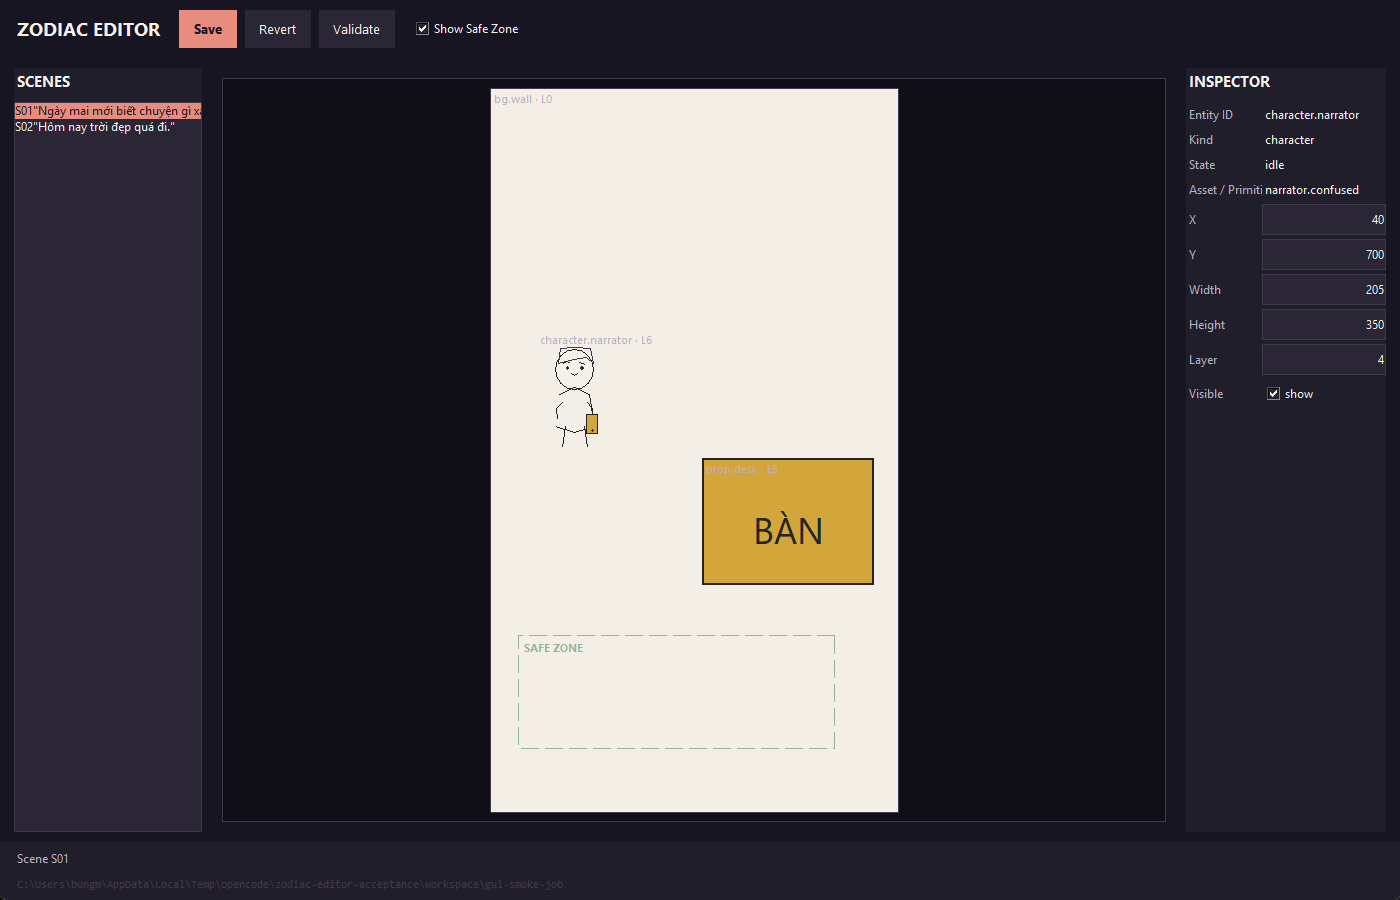
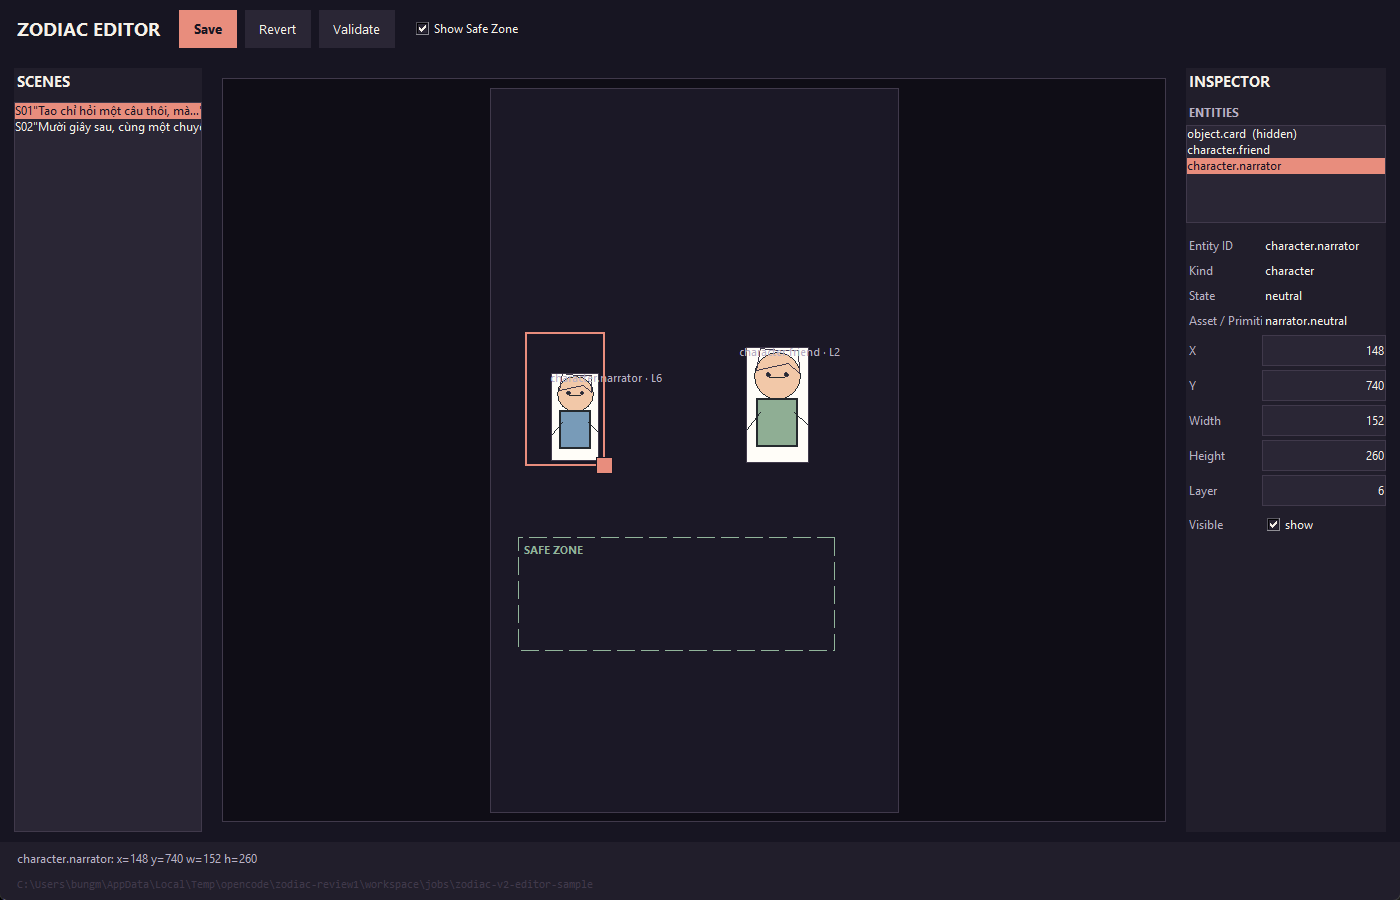
Keep hidden entities out of canvas hit-testing
Hidden entities now have no invisible clickable region: they are not drawn and

not hit-tested. The inspector entity list (including '(hidden)' entries) is the

only way to select one and toggle Visible back on.

Adds regression coverage for rejected-save persistence and fixture verification.

diff --git a/tests/test_editor.py b/tests/test_editor.py
@@ -4,7 +4,7 @@ import unittest
 from pathlib import Path
 
 from test_zodiac_local import package_files, write_pcm
-from tools.editor.canvas import build_items, hit_test
+from tools.editor.canvas import build_items, describe_source, hit_test
 from tools.editor.commands import History, StateCommand
 from tools.editor.document import EditorDocument, EditorError
 from tools.editor.geometry import CanvasTransform
@@ -292,7 +292,7 @@ class CanvasHitTestTests(unittest.TestCase):
             self.assertEqual(hit.entity_id, "bg.wall")
             self.assertIsNone(hit_test(items, -50, -50))
 
-    def test_hidden_entity_stays_clickable_but_is_not_drawn(self):
+    def test_hidden_entity_is_not_hit_tested_on_canvas(self):
         view = CanvasTransform(1080, 1920, 540, 960)
         with tempfile.TemporaryDirectory() as temp:
             job = write_editor_package(Path(temp))
@@ -302,9 +302,14 @@ class CanvasHitTestTests(unittest.TestCase):
                 "character.lead",
                 [item.entity_id for item in build_items(document, "S01", view)],
             )
-            clickable = build_items(document, "S01", view, include_hidden=True)
-            hit = hit_test(clickable, 200 * view.scale, 200 * view.scale)
-            self.assertEqual(hit.entity_id, "character.lead")
+            self.assertNotEqual(
+                hit_test(build_items(document, "S01", view), 200 * view.scale, 200 * view.scale).entity_id,
+                "character.lead",
+            )
+            # the inspector entity list is the only way back to a hidden entity
+            hidden = [p for p in document.placements("S01") if p.entity_id == "character.lead"]
+            self.assertEqual(len(hidden), 1)
+            self.assertFalse(hidden[0].visible)
 
     def test_layer_order_matches_contract_layer(self):
         view = CanvasTransform(1080, 1920, 540, 960)
@@ -342,6 +347,131 @@ class RuntimeInvalidationTests(unittest.TestCase):
             self.assertTrue(timing.exists())
             self.assertTrue((job / "voice.wav").exists())
             self.assertTrue((job / ".runtime" / "timing.json").exists())
+
+
+def editor_sample_archive() -> Path | None:
+    """The reviewer-provided v2 sample package, when the local zip is present."""
+    archive = Path(__file__).resolve().parents[1] / "ready" / "zodiac-v2-editor-sample.zip"
+    return archive if archive.is_file() else None
+
+
+def import_sample_package(root: Path) -> Path:
+    from tools.zodiac_local import import_package
+
+    return import_package(editor_sample_archive(), root / "jobs")
+
+
+def sample_shaped_package(job: Path) -> Path:
+    """Use the sample's S01 narrator numbers so both fixtures assert the same values."""
+    production = json.loads((job / "production.json").read_text(encoding="utf-8"))
+    state = production["scenes"][0]["entities"][0]["states"]["neutral"]
+    state["transform"] = {"x": 95, "y": 650, "width": 205, "height": 350}
+    state["layer"] = 3
+    (job / "production.json").write_text(json.dumps(production, ensure_ascii=False), encoding="utf-8")
+    return job
+
+
+class PersistenceRegressionTests(unittest.TestCase):
+    """load -> valid resize -> save -> reload -> invalid resize -> rejected save."""
+
+    RESIZED = {"x": 95, "y": 650, "width": 152, "height": 259}
+
+    def _run_sequence(self, job: Path, entity_id: str) -> None:
+        document = EditorDocument(job)
+        document.set_transform("S01", entity_id, width=152, height=259)
+        document.save()
+
+        reopened = EditorDocument(job)
+        self.assertFalse(reopened.is_dirty)
+        self.assertEqual(reopened.state("S01", entity_id)["transform"], self.RESIZED)
+
+        reopened.set_transform("S01", entity_id, width=0, height=259)
+        with self.assertRaises(EditorError):
+            reopened.save()
+
+        disk = json.loads((job / "production.json").read_text(encoding="utf-8"))
+        entity = next(
+            item
+            for scene in disk["scenes"]
+            if scene["id"] == "S01"
+            for item in scene["entities"]
+            if item["id"] == entity_id
+        )
+        self.assertEqual(entity["states"][entity["initial_state"]]["transform"], self.RESIZED)
+        self.assertEqual(list(job.glob("production.json*.tmp")), [])
+
+    def test_generated_package_keeps_last_valid_resize(self):
+        with tempfile.TemporaryDirectory() as temp:
+            job = sample_shaped_package(write_editor_package(Path(temp)))
+            self._run_sequence(job, "character.lead")
+
+    def test_editor_sample_zip_keeps_last_valid_resize(self):
+        if editor_sample_archive() is None:
+            self.skipTest("ready/zodiac-v2-editor-sample.zip is not available")
+        with tempfile.TemporaryDirectory() as temp:
+            self._run_sequence(import_sample_package(Path(temp)), "character.narrator")
+
+
+class SamplePackageTests(unittest.TestCase):
+    def setUp(self):
+        if editor_sample_archive() is None:
+            self.skipTest("ready/zodiac-v2-editor-sample.zip is not available")
+        self._temp = tempfile.TemporaryDirectory()
+        self.job = import_sample_package(Path(self._temp.name))
+
+    def tearDown(self):
+        self._temp.cleanup()
+
+    def test_fixture_matches_the_v2_contract(self):
+        document = EditorDocument(self.job)
+        self.assertEqual(document.working["version"], "2.0")
+        self.assertEqual(document.video, {"width": 1080, "height": 1920, "fps": 30})
+        self.assertEqual(len(document.scene_ids), 2)
+        for scene_id in document.scene_ids:
+            self.assertEqual(len(document.placements(scene_id)), 3)
+
+    def test_fixture_svg_and_primitive_sources_resolve(self):
+        document = EditorDocument(self.job)
+        for scene_id in document.scene_ids:
+            for placement in document.placements(scene_id):
+                detail, missing = describe_source(document, placement)
+                self.assertFalse(missing, f"{placement.entity_id} -> {detail}")
+                if placement.asset:
+                    self.assertTrue((self.job / detail).is_file())
+
+    def test_scene_start_and_voice_anchor_survive_a_save(self):
+        before = json.loads((self.job / "production.json").read_text(encoding="utf-8"))
+        document = EditorDocument(self.job)
+        document.set_transform("S01", "character.narrator", x=95, y=650)
+        document.save()
+        after = json.loads((self.job / "production.json").read_text(encoding="utf-8"))
+        self.assertEqual(before["scenes"][0]["events"], after["scenes"][0]["events"])
+        self.assertEqual(
+            [event["trigger"] for event in after["scenes"][0]["events"]],
+            [{"source": "scene_start"}, {"source": "voice_anchor", "text": "bảng giả thuyết"}],
+        )
+        self.assertEqual(before["scenes"][0]["voice"], after["scenes"][0]["voice"])
+
+    def test_design_and_style_token_are_untouched(self):
+        design = (self.job / "design.md").read_bytes()
+        token = EditorDocument(self.job).working["visual_system"]["style_token"]
+        document = EditorDocument(self.job)
+        document.set_layer("S01", "character.narrator", 4)
+        document.save()
+        self.assertEqual((self.job / "design.md").read_bytes(), design)
+        saved = json.loads((self.job / "production.json").read_text(encoding="utf-8"))
+        self.assertEqual(saved["visual_system"]["style_token"], token)
+
+    def test_hidden_initial_state_is_not_hit_tested(self):
+        document = EditorDocument(self.job)
+        view = CanvasTransform(1080, 1920, 405, 720)
+        items = build_items(document, "S01", view)
+        self.assertEqual([item.entity_id for item in items], ["character.friend", "character.narrator"])
+        card = [p for p in document.placements("S01") if p.entity_id == "object.card"][0]
+        self.assertFalse(card.visible)
+        self.assertIsNone(
+            hit_test(items, view.to_display(card.x + 10, card.y + 10)[0], view.to_display(card.x + 10, card.y + 10)[1])
+        )
 
 
 if __name__ == "__main__":

diff --git a/tools/editor/inspector.py b/tools/editor/inspector.py
@@ -11,15 +11,17 @@ FIELD_FONT = ("Segoe UI", 9)
 
 
 class Inspector(tk.Frame):
-    """Two-way sync between the canvas and the contract values."""
+    """Entity list plus two-way sync between the canvas and the contract values."""
 
-    def __init__(self, parent, document, *, on_commit=None, on_status=None) -> None:
+    def __init__(self, parent, document, *, on_commit=None, on_status=None, on_select_entity=None) -> None:
         super().__init__(parent, bg=COLORS["panel"])
         self.document = document
         self.on_commit = on_commit or (lambda label, scene_id, entity_id, before, after: None)
         self.on_status = on_status or (lambda message: None)
+        self.on_select_entity = on_select_entity or (lambda entity_id: None)
         self.placement = None
         self._loading = False
+        self._entity_ids: list[str] = []
         self._vars: dict[str, tk.Variable] = {
             key: tk.StringVar() for key in ("x", "y", "width", "height", "layer")
         }
@@ -27,6 +29,26 @@ class Inspector(tk.Frame):
 
         tk.Label(self, text="INSPECTOR", bg=COLORS["panel"], fg=COLORS["fg"],
                  font=("Segoe UI", 11, "bold")).pack(anchor="w", pady=(0, 8))
+
+        tk.Label(self, text="ENTITIES", bg=COLORS["panel"], fg=COLORS["muted"],
+                 font=("Segoe UI", 9, "bold")).pack(anchor="w")
+        self.entity_list = tk.Listbox(
+            self,
+            bg=COLORS["field"],
+            fg=COLORS["fg"],
+            relief="flat",
+            bd=0,
+            highlightthickness=1,
+            highlightbackground=COLORS["line"],
+            selectbackground=COLORS["accent"],
+            selectforeground=COLORS["bg"],
+            activestyle="none",
+            font=("Segoe UI", 9),
+            exportselection=False,
+            height=6,
+        )
+        self.entity_list.pack(fill="x", pady=(2, 10))
+        self.entity_list.bind("<<ListboxSelect>>", self._on_entity_pick)
 
         self.readonly: dict[str, tk.Label] = {}
         for key, caption in (
@@ -76,6 +98,32 @@ class Inspector(tk.Frame):
         entry.bind("<FocusOut>", lambda _event, k=key: self._apply_fields({k: self._vars[k].get()}))
 
     # ---- public ------------------------------------------------------
+    def load_entities(self, placements) -> None:
+        """List every entity of the scene, hidden ones included."""
+        self._loading = True
+        self.entity_list.delete(0, "end")
+        self._entity_ids = []
+        for placement in placements:
+            self._entity_ids.append(placement.entity_id)
+            label = placement.entity_id if placement.visible else f"{placement.entity_id}  (hidden)"
+            self.entity_list.insert("end", label)
+        self._loading = False
+        if self.placement is not None:
+            self._highlight(self.placement.entity_id)
+
+    def _highlight(self, entity_id: str | None) -> None:
+        if entity_id in self._entity_ids:
+            self.entity_list.selection_clear(0, "end")
+            self.entity_list.selection_set(self._entity_ids.index(entity_id))
+            self.entity_list.see(self._entity_ids.index(entity_id))
+
+    def _on_entity_pick(self, _event) -> None:
+        if self._loading:
+            return
+        selection = self.entity_list.curselection()
+        if selection and selection[0] < len(self._entity_ids):
+            self.on_select_entity(self._entity_ids[selection[0]])
+
     def show(self, placement) -> None:
         self._loading = True
         self.placement = placement
@@ -85,6 +133,7 @@ class Inspector(tk.Frame):
             for variable in self._vars.values():
                 variable.set("")
             self.visible.set(False)
+            self.entity_list.selection_clear(0, "end")
             self._loading = False
             return
 
@@ -92,6 +141,7 @@ class Inspector(tk.Frame):
         self.readonly["kind"].configure(text=placement.kind or "—")
         self.readonly["state_id"].configure(text=placement.state_id)
         self.readonly["source"].configure(text=placement.source_id)
+        self._highlight(placement.entity_id)
         state = self.document.state(placement.scene_id, placement.entity_id, placement.state_id)
         transform = state.get("transform") or {}
         for key in ("x", "y", "width", "height"):

diff --git a/tools/editor/canvas.py b/tools/editor/canvas.py
@@ -277,8 +277,15 @@ class CanvasView(tk.Frame):
         self.on_select(None)
 
     def select(self, entity_id: str | None) -> None:
+        """Select by id, including hidden entities chosen from the inspector list."""
         self.selected = next(
-            (item for item in self.items if item.placement.entity_id == entity_id),
+            (
+                item
+                for item in build_items(
+                    self.document, self.scene_id, self._view, include_hidden=True
+                )
+                if item.entity_id == entity_id
+            ),
             None,
         )
         self.refresh()
@@ -376,33 +383,33 @@ class CanvasView(tk.Frame):
         )
 
     def _on_press(self, event) -> None:
-        if self.scene_id is None:
-            return
-        offset_x, offset_y = self._offset
-        # hidden entities stay clickable so a hidden object can be brought back
-        items = build_items(self.document, self.scene_id, self._view, include_hidden=True)
-        x, y = event.x - offset_x, event.y - offset_y
-        if self.selected is not None and in_handle(self.selected.display_rect, x, y):
+            if self.scene_id is None:
+                return
+            offset_x, offset_y = self._offset
+            # hidden entities are never clickable; the inspector entity list selects them
+            items = build_items(self.document, self.scene_id, self._view)
+            x, y = event.x - offset_x, event.y - offset_y
+            if self.selected is not None and in_handle(self.selected.display_rect, x, y):
+                self._drag = {
+                    "mode": "resize",
+                    "before": self._snapshot(self.selected.placement),
+                    "rect": self.selected.display_rect,
+                    "origin": (event.x, event.y),
+                }
+                return
+            item = hit_test(items, x, y)
+            self.selected = item
+            self.refresh()
+            if item is None:
+                self.on_select(None)
+                return
+            self.on_select(item.placement)
             self._drag = {
-                "mode": "resize",
-                "before": self._snapshot(self.selected.placement),
-                "rect": self.selected.display_rect,
+                "mode": "move",
+                "before": self._snapshot(item.placement),
+                "rect": item.display_rect,
                 "origin": (event.x, event.y),
             }
-            return
-        item = hit_test(items, x, y)
-        self.selected = item
-        self.refresh()
-        if item is None:
-            self.on_select(None)
-            return
-        self.on_select(item.placement)
-        self._drag = {
-            "mode": "move",
-            "before": self._snapshot(item.placement),
-            "rect": item.display_rect,
-            "origin": (event.x, event.y),
-        }
 
     def _on_drag(self, event) -> None:
         if not self._drag or self.selected is None:

diff --git a/tools/editor/workspace.py b/tools/editor/workspace.py
@@ -102,6 +102,7 @@ class EditorWorkspace(tk.Toplevel):
             self.document,
             on_commit=self._commit,
             on_status=self._set_status,
+            on_select_entity=self._select_entity,
         )
         self.inspector.configure(width=240)
         self.inspector.grid(row=0, column=2, sticky="nsew", padx=(10, 0))
@@ -120,8 +121,16 @@ class EditorWorkspace(tk.Toplevel):
     def show_scene(self, scene_id: str) -> None:
         self.scene_id = scene_id
         self.canvas.show_scene(scene_id)
+        self.inspector.load_entities(self.document.placements(scene_id))
         self._set_status(f"Scene {scene_id}")
         self._update_title()
+
+    def _select_entity(self, entity_id: str) -> None:
+        """Select from the entity list; the only way to reach a hidden entity."""
+        if not self.scene_id:
+            return
+        self.canvas.select(entity_id)
+        self.inspector.show(self.canvas.selected.placement if self.canvas.selected else None)
 
     def _on_select(self, placement) -> None:
         self.inspector.show(placement)
@@ -138,6 +147,7 @@ class EditorWorkspace(tk.Toplevel):
             StateCommand(self.document, scene_id, entity_id, label).begin(after, before)
         )
         self.canvas.refresh()
+        self.inspector.load_entities(self.document.placements(scene_id))
         self.inspector.sync()
         self._update_title()
 
